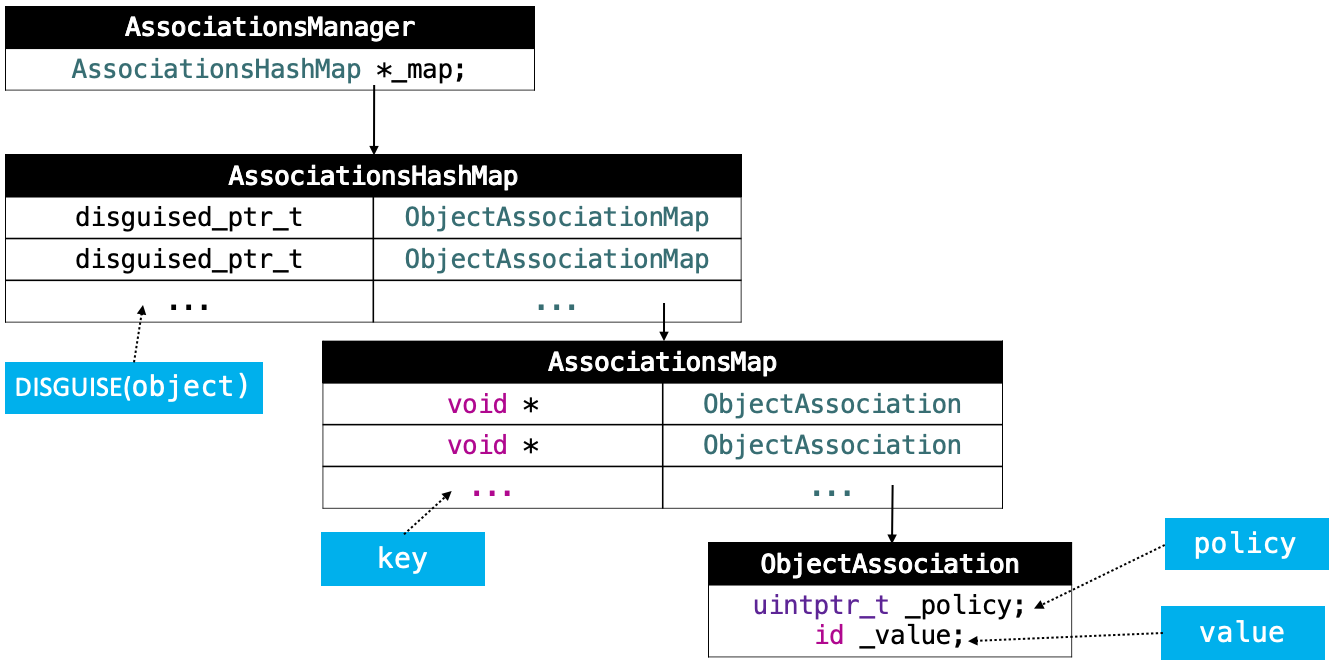
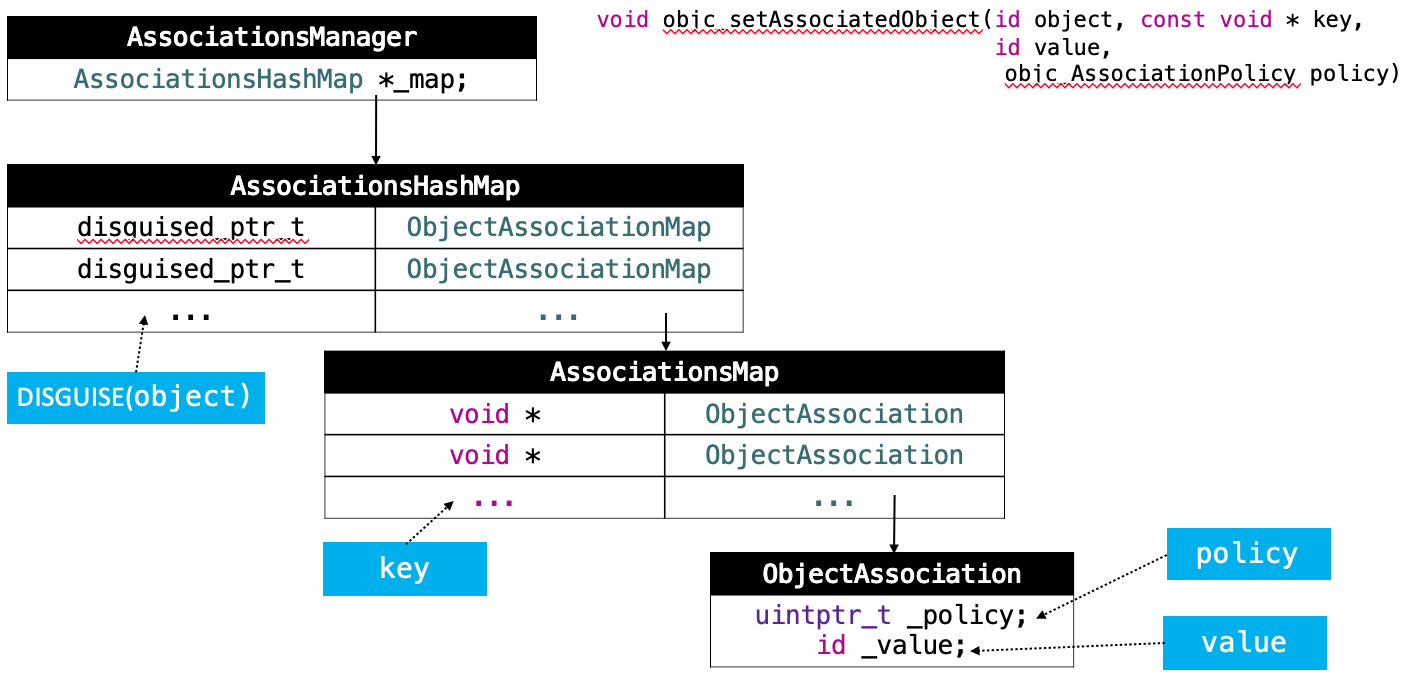
Site updated: 2020-05-30 23:25:17

Changed region(s): [[0.0, 0.2102, 1.0, 0.991], [0.0, 0.0, 1.0, 0.1502], [0.4918, 0.961, 0.5225, 0.991]]

diff --git a/2020/05/26/OC底层/原理/关联对象/index.html b/2020/05/26/OC底层/原理/关联对象/index.html
@@ -80,7 +80,8 @@
 <meta property="og:image" content="http://yoursite.com/2020/05/26/OC底层/原理/关联对象/关联对象01.png">
 <meta property="og:image" content="http://yoursite.com/2020/05/26/OC底层/原理/关联对象/关联对象02.png">
 <meta property="og:image" content="http://yoursite.com/2020/05/26/OC底层/原理/关联对象/关联对象03.png">
-<meta property="og:updated_time" content="2020-05-30T15:19:20.554Z">
+<meta property="og:image" content="http://yoursite.com/2020/05/26/OC底层/原理/关联对象/关联对象04.png">
+<meta property="og:updated_time" content="2020-05-30T15:25:07.754Z">
 <meta name="twitter:card" content="summary">
 <meta name="twitter:title" content="关联对象">
 <meta name="twitter:description" content="思考：Category 能否添加成员变量？如果可以，如何给 Category 添加成员变量？ 类对象可以关联对象吗？">
@@ -385,6 +386,7 @@
 <li>ObjectAssociationMap：存储着某一个关联对象的 key、value 和 policy 信息；  </li>
 <li>ObjcAssociation：存储着某一个关联对象的 value 和 policy 信息；</li>
 </ul>
+<p><img src="/2020/05/26/OC底层/原理/关联对象/关联对象04.png" alt="关联对象04"></p>
 <p>打开 runtime 源码 <a href="https://opensource.apple.com/tarballs/objc4/" target="_blank" rel="external">objc4-781</a>，找到 _base_objc_setAssociatedObject 方法的实现👇：</p>
 <h2 id="base-objc-setAssociatedObject"><a href="#base-objc-setAssociatedObject" class="headerlink" title="_base_objc_setAssociatedObject"></a>_base_objc_setAssociatedObject</h2><figure class="highlight cs"><table><tr><td class="gutter"><pre><div class="line">1</div><div class="line">2</div><div class="line">3</div><div class="line">4</div><div class="line">5</div></pre></td><td class="code"><pre><div class="line"><span class="keyword">static</span> <span class="keyword">void</span></div><div class="line">_base_objc_setAssociatedObject(id <span class="keyword">object</span>, <span class="keyword">const</span> <span class="keyword">void</span> *key, id <span class="keyword">value</span>, objc_AssociationPolicy policy)</div><div class="line">&#123;</div><div class="line">  _object_set_associative_reference(<span class="keyword">object</span>, key, <span class="keyword">value</span>, policy);</div><div class="line">&#125;</div></pre></td></tr></table></figure>
 <p>Jump To Definition -&gt; _object_set_associative_reference：<br><figure class="highlight ceylon"><table><tr><td class="gutter"><pre><div class="line">1</div><div class="line">2</div><div class="line">3</div><div class="line">4</div><div class="line">5</div><div class="line">6</div><div class="line">7</div><div class="line">8</div><div class="line">9</div><div class="line">10</div><div class="line">11</div><div class="line">12</div><div class="line">13</div><div class="line">14</div><div class="line">15</div><div class="line">16</div><div class="line">17</div><div class="line">18</div><div class="line">19</div><div class="line">20</div><div class="line">21</div><div class="line">22</div><div class="line">23</div><div class="line">24</div><div class="line">25</div><div class="line">26</div><div class="line">27</div><div class="line">28</div><div class="line">29</div><div class="line">30</div><div class="line">31</div><div class="line">32</div><div class="line">33</div><div class="line">34</div><div class="line">35</div><div class="line">36</div><div class="line">37</div><div class="line">38</div><div class="line">39</div><div class="line">40</div><div class="line">41</div><div class="line">42</div><div class="line">43</div><div class="line">44</div><div class="line">45</div><div class="line">46</div><div class="line">47</div><div class="line">48</div><div class="line">49</div><div class="line">50</div><div class="line">51</div><div class="line">52</div><div class="line">53</div><div class="line">54</div></pre></td><td class="code"><pre><div class="line"><span class="keyword">void</span></div><div class="line"><span class="number">_</span><span class="keyword">object</span><span class="number">_</span>set<span class="number">_</span>associative<span class="number">_</span>reference(id <span class="keyword">object</span>, const <span class="keyword">void</span> *key, id <span class="keyword">value</span>, uintptr<span class="number">_</span>t policy)</div><div class="line">&#123;</div><div class="line">    <span class="comment">// This code used to work when nil was passed for object and key. Some code</span></div><div class="line">    <span class="comment">// probably relies on that to not crash. Check and handle it explicitly.</span></div><div class="line">    <span class="comment">// rdar://problem/44094390</span></div><div class="line">    <span class="keyword">if</span> (!<span class="keyword">object</span> &amp;&amp; !<span class="keyword">value</span>) <span class="keyword">return</span>;</div><div class="line"></div><div class="line">    <span class="keyword">if</span> (<span class="keyword">object</span>-&gt;getIsa()-&gt;forbidsAssociatedObjects())</div><div class="line">        <span class="number">_</span>objc<span class="number">_f</span>atal(<span class="string">"objc_setAssociatedObject called on instance (%p) of class %s which does not allow associated objects"</span>, <span class="keyword">object</span>, <span class="keyword">object</span><span class="number">_</span>getClassName(<span class="keyword">object</span>));</div><div class="line"></div><div class="line">    DisguisedPtr&lt;objc<span class="number">_</span><span class="keyword">object</span>&gt; disguised&#123;(objc<span class="number">_</span><span class="keyword">object</span> *)<span class="keyword">object</span>&#125;; <span class="comment">//根据传入的 object 封装成 DisguisedPtr，作为读写 ObjectAssociationMap 的 key</span></div><div class="line">    ObjcAssociation association&#123;policy, <span class="keyword">value</span>&#125;; <span class="comment">//根据 policy 和 value 生成 ObjcAssociation 对象</span></div><div class="line"></div><div class="line">    <span class="comment">// retain the new value (if any) outside the lock.</span></div><div class="line">    association.acquireValue();</div><div class="line"></div><div class="line">    &#123;</div><div class="line">        AssociationsManager manager; <span class="comment">//关联对象管理类</span></div><div class="line">        AssociationsHashMap &amp;associations(manager.get()); <span class="comment">//获取关联对象管理类里的保存了所有关联对象信息的字典</span></div><div class="line"></div><div class="line">        <span class="keyword">if</span> (<span class="keyword">value</span>) &#123;</div><div class="line">            auto refs<span class="number">_</span>result = associations.<span class="keyword">try</span><span class="number">_</span>emplace(disguised, ObjectAssociationMap&#123;&#125;); <span class="comment">//如果键值不在 associations 中，则将键和值对插入到 associations 中</span></div><div class="line">            <span class="keyword">if</span> (refs<span class="number">_</span>result.second) &#123;</div><div class="line">                <span class="comment">/* it's the first association we make */</span></div><div class="line">                <span class="keyword">object</span>-&gt;setHasAssociatedObjects(); <span class="comment">//标记其被关联状态</span></div><div class="line">            &#125;</div><div class="line"></div><div class="line">            <span class="comment">/* establish or replace the association */</span></div><div class="line">            auto &amp;refs = refs<span class="number">_</span>result.first-&gt;second; <span class="comment">//找到 ObjcAssociation</span></div><div class="line">            auto result = refs.<span class="keyword">try</span><span class="number">_</span>emplace(key, std::move(association)); <span class="comment">//如果键值不在 refs 中，则将键和值对插入到 refs 中</span></div><div class="line">            <span class="keyword">if</span> (!result.second) &#123;</div><div class="line">                association.swap(result.first-&gt;second);</div><div class="line">            &#125;</div><div class="line">        &#125; <span class="keyword">else</span> &#123;</div><div class="line">            auto refs<span class="number">_</span>it = associations.find(disguised);</div><div class="line">            <span class="keyword">if</span> (refs<span class="number">_</span>it != associations.end()) &#123;</div><div class="line">                auto &amp;refs = refs<span class="number">_</span>it-&gt;second;</div><div class="line">                auto it = refs.find(key);</div><div class="line">                <span class="keyword">if</span> (it != refs.end()) &#123;</div><div class="line">                    association.swap(it-&gt;second);</div><div class="line">                    refs.erase(it);</div><div class="line">                    <span class="keyword">if</span> (refs.size() == <span class="number">0</span>) &#123;</div><div class="line">                        associations.erase(refs<span class="number">_</span>it);</div><div class="line"></div><div class="line">                    &#125;</div><div class="line">                &#125;</div><div class="line">            &#125;</div><div class="line">        &#125;</div><div class="line">    &#125;</div><div class="line"></div><div class="line">    <span class="comment">// release the old value (outside of the lock).</span></div><div class="line">    association.releaseHeldValue();</div><div class="line">&#125;</div></pre></td></tr></table></figure></p>

diff --git a/css/main.css b/css/main.css
@@ -1818,7 +1818,7 @@ pre .javascript .function {
   width: 4px;
   height: 4px;
   border-radius: 50%;
-  background: #4e759a;
+  background: #043c88;
 }
 .links-of-blogroll {
   font-size: 13px;
